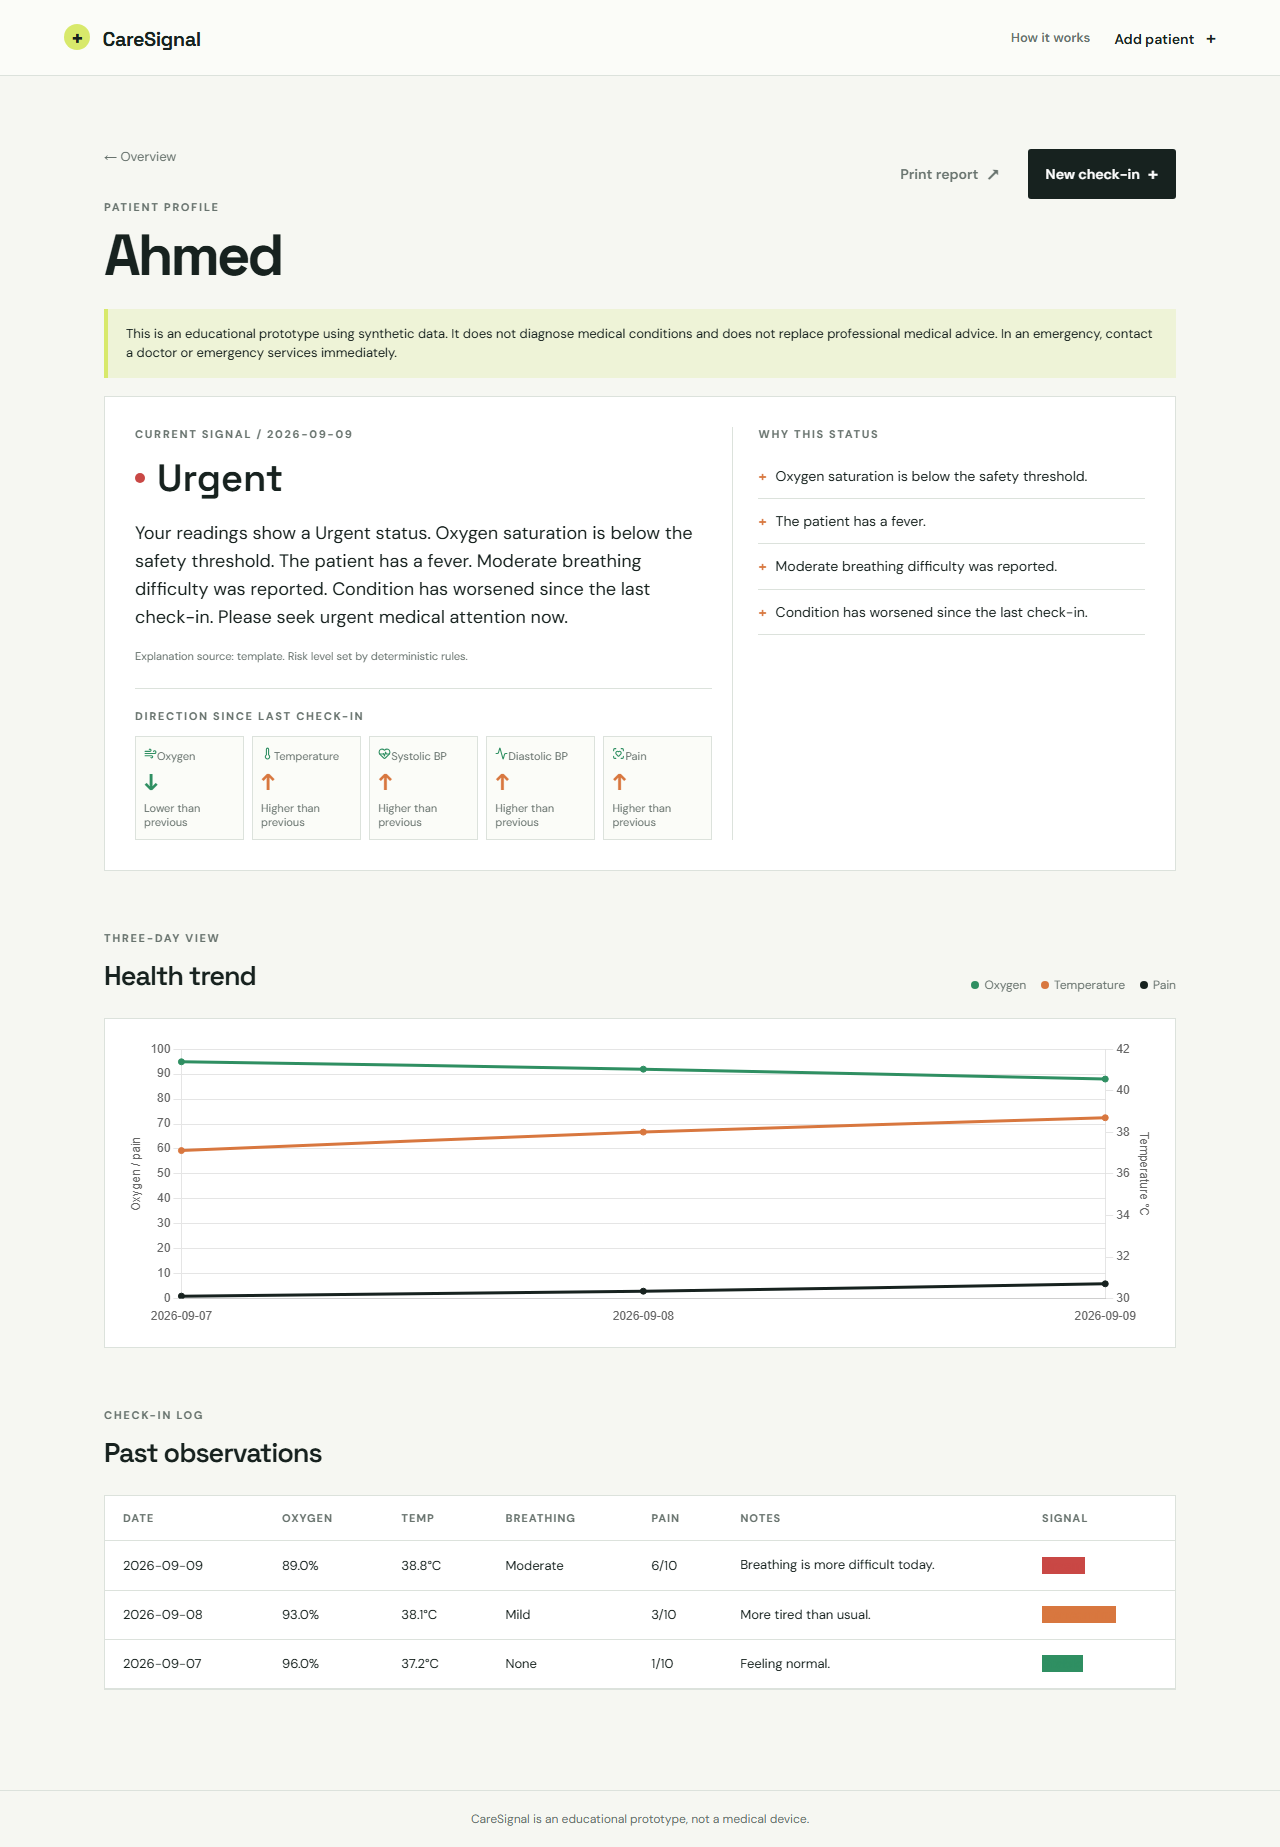
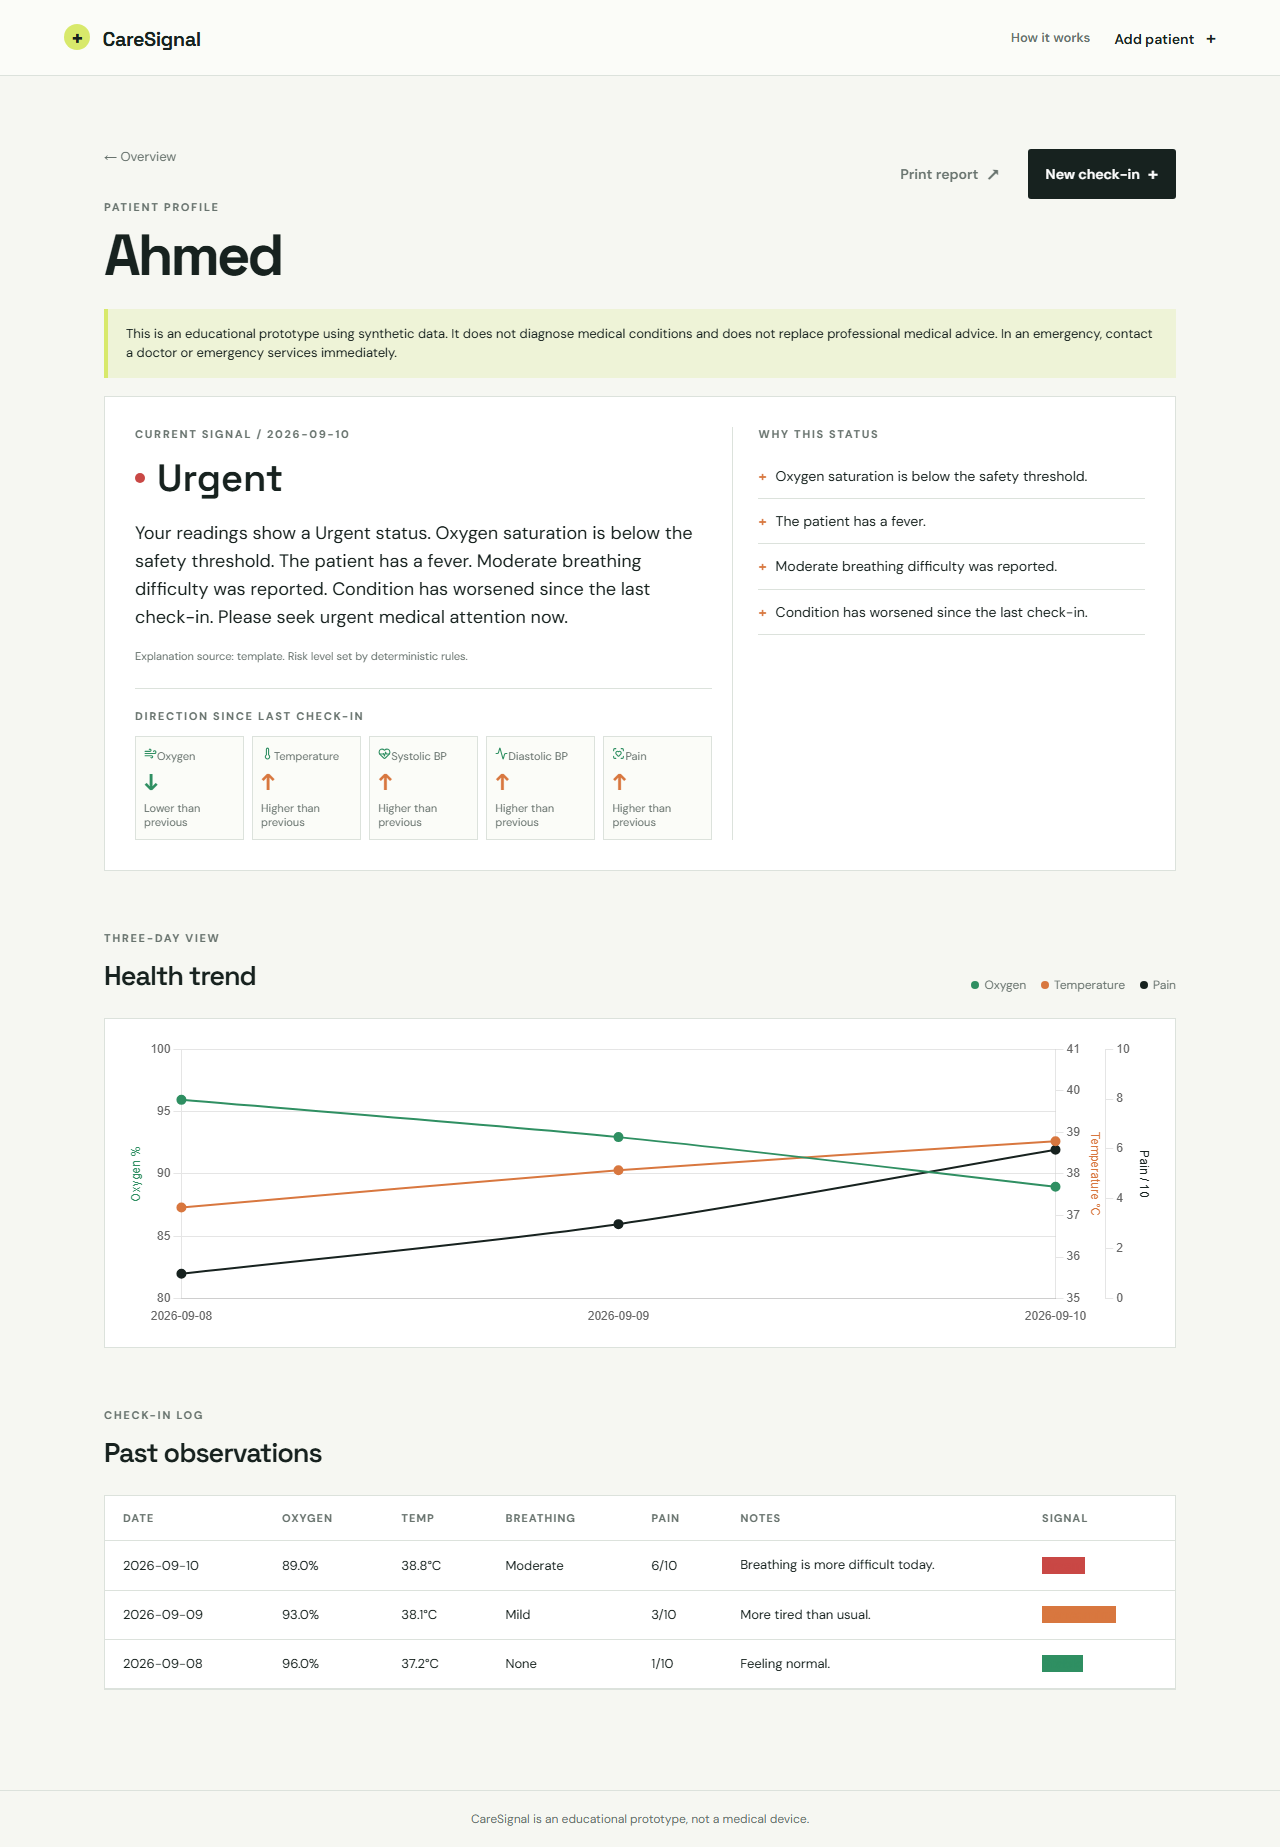
Optimize trend chart Y-axis scaling for clinical clarity

diff --git a/static/js/chart.js b/static/js/chart.js
@@ -7,9 +7,9 @@ if (canvas && observations.length) {
     data: {
       labels: observations.map(item => item.date),
       datasets: [
-        { label: 'Oxygen %', data: observations.map(item => item.oxygen), borderColor: '#2f8f62', backgroundColor: '#2f8f62', borderWidth: 2, pointRadius: 4, pointHoverRadius: 5, showLine: true, fill: false, tension: 0.3, yAxisID: 'health' },
-        { label: 'Temperature °C', data: observations.map(item => item.temperature), borderColor: '#d8773f', backgroundColor: '#d8773f', borderWidth: 2, pointRadius: 4, pointHoverRadius: 5, showLine: true, fill: false, tension: 0.3, yAxisID: 'temperature' },
-        { label: 'Pain / 10', data: observations.map(item => item.pain_level), borderColor: '#17221f', backgroundColor: '#17221f', borderWidth: 2, pointRadius: 4, pointHoverRadius: 5, showLine: true, fill: false, tension: 0.3, yAxisID: 'health' }
+        { label: 'Oxygen %', data: observations.map(item => item.oxygen), borderColor: '#2f8f62', backgroundColor: '#2f8f62', borderWidth: 2, pointRadius: 4, pointHoverRadius: 6, showLine: true, fill: false, tension: 0.3, yAxisID: 'oxygen' },
+        { label: 'Temperature °C', data: observations.map(item => item.temperature), borderColor: '#d8773f', backgroundColor: '#d8773f', borderWidth: 2, pointRadius: 4, pointHoverRadius: 6, showLine: true, fill: false, tension: 0.3, yAxisID: 'temperature' },
+        { label: 'Pain / 10', data: observations.map(item => item.pain_level), borderColor: '#17221f', backgroundColor: '#17221f', borderWidth: 2, pointRadius: 4, pointHoverRadius: 6, showLine: true, fill: false, tension: 0.3, yAxisID: 'pain' }
       ]
     },
     options: {
@@ -19,8 +19,32 @@ if (canvas && observations.length) {
       plugins: { legend: { display: false } },
       scales: {
         x: { grid: { display: false } },
-        health: { min: 0, max: 100, position: 'left', title: { display: true, text: 'Oxygen / pain' } },
-        temperature: { min: 30, max: 42, position: 'right', grid: { drawOnChartArea: false }, title: { display: true, text: 'Temperature °C' } }
+        oxygen: {
+          type: 'linear',
+          position: 'left',
+          suggestedMin: 80,
+          suggestedMax: 100,
+          title: { display: true, text: 'Oxygen %', color: '#2f8f62' },
+          ticks: { stepSize: 5 }
+        },
+        temperature: {
+          type: 'linear',
+          position: 'right',
+          suggestedMin: 35,
+          suggestedMax: 41,
+          grid: { drawOnChartArea: false },
+          title: { display: true, text: 'Temperature °C', color: '#d8773f' },
+          ticks: { stepSize: 1 }
+        },
+        pain: {
+          type: 'linear',
+          position: 'right',
+          suggestedMin: 0,
+          suggestedMax: 10,
+          grid: { drawOnChartArea: false },
+          title: { display: true, text: 'Pain / 10', color: '#17221f' },
+          ticks: { stepSize: 2 }
+        }
       }
     }
   });
